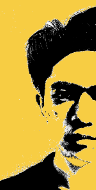
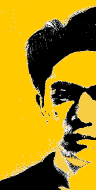
:modify design

diff --git a/pages/index.vue b/pages/index.vue
@@ -5,7 +5,7 @@ const toLogin = () => router.push("./login");
 
 <template>
   <div class="text-center">
-    <div class="bg-[#F7CC45]">
+    <div class="bg-[#FFCA00]">
       <div class="flex">
         <div>
           <img
@@ -13,10 +13,10 @@ const toLogin = () => router.push("./login");
             src="~/assets/img/nippon-grand-prix-title.png"
             alt="サービス"
           />
-          <p class="font-black text-xl md:text-6xl mt-4 px-6">
+          <p class="font-black text-xl md:text-5xl mt-4 px-6">
             スワイプでひと笑い
           </p>
-          <p class="font-bold text-base md:text-4xl mt-2 px-6 md:mt-4">
+          <p class="font-bold text-base md:text-2xl mt-2 px-6 md:mt-4">
             〜新感覚な大喜利アプリ〜
           </p>
         </div>
@@ -35,14 +35,17 @@ const toLogin = () => router.push("./login");
             bg-gradient-to-r
             from-yellow-600
             to-zinc-400
-            hover:from-zinc-500 hover:to-teal-600
+            hover:from-zinc-500
+            hover:to-teal-600
             cursor-pointer
             text-white
             font-bold
             py-3
             px-8
             rounded-full
-            md:text-3xl md:py-6 md:px-16
+            md:text-2xl
+            md:py-4
+            md:px-16
           "
           @click="toLogin"
         >
@@ -56,14 +59,14 @@ const toLogin = () => router.push("./login");
           md:text-center
           px-6
           pt-8
-          md:text-3xl
+          md:text-2xl
         "
       >
         <span class="text-yellow-500">Nipponグランプリ</span>
         は、大喜利をスワイプで評価、クイズ形式で投稿して余暇を楽しむサービスです。
       </h1>
     </div>
-    <div class="bg-[#F7CC45] h-hull px-4 py-8">
+    <div class="bg-[#FFCA00] h-hull px-4 py-8">
       <p class="font-bold text-3xl md:text-4xl">特徴</p>
       <p class="my-4 text-sm text-white">Feature</p>
       <div class="py-4 md:flex md:justify-center">
@@ -77,7 +80,8 @@ const toLogin = () => router.push("./login");
             bg-white
             font-bold
             my-4
-            md:mx-6 md:w-1/4
+            md:mx-6
+            md:w-1/4
           "
         >
           <div>
@@ -101,7 +105,8 @@ const toLogin = () => router.push("./login");
             bg-white
             font-bold
             my-4
-            md:mx-6 md:w-1/4
+            md:mx-6
+            md:w-1/4
           "
         >
           <div>
@@ -125,7 +130,8 @@ const toLogin = () => router.push("./login");
             bg-white
             font-bold
             my-4
-            md:mx-6 md:w-1/4
+            md:mx-6
+            md:w-1/4
           "
         >
           <div>
@@ -141,9 +147,9 @@ const toLogin = () => router.push("./login");
         </div>
       </div>
     </div>
-    <div class="bg-black h-full md:h-screen px-4 py-8">
+    <div class="bg-black h-full px-4 py-8">
       <p class="font-bold text-3xl md:text-4xl text-white">使い方</p>
-      <p class="my-4 text-sm text-[#F7CC45]">How to Use</p>
+      <p class="my-4 text-sm text-[#FFCA00]">How to Use</p>
       <div class="flex justify-center py-8 md:pt-20">
         <div class="w-40 md:w-80 text-white text-justify">
           <img
@@ -169,7 +175,7 @@ const toLogin = () => router.push("./login");
         </div>
       </div>
     </div>
-    <div class="bg-[#F7CC45] h-hull md:h-screen px-4 py-8">
+    <div class="bg-[#FFCA00] h-hull px-4 py-8">
       <p class="font-bold text-3xl md:text-4xl text-black">よくある質問</p>
       <p class="my-4 text-sm text-white">Question & Answer</p>
       <div class="divide-y">
@@ -181,8 +187,7 @@ const toLogin = () => router.push("./login");
               class="
                 before:block
                 before:absolute
-                before:-inset-1
-                before:-skew-y-3
+                before:-inset-1 before:-skew-y-3
                 before:bg-pink-500
                 relative
                 inline-block
@@ -199,8 +204,7 @@ const toLogin = () => router.push("./login");
               class="
                 before:block
                 before:absolute
-                before:-inset-1
-                before:-skew-y-3
+                before:-inset-1 before:-skew-y-3
                 before:bg-teal-600
                 relative
                 inline-block
@@ -219,8 +223,7 @@ const toLogin = () => router.push("./login");
               class="
                 before:block
                 before:absolute
-                before:-inset-1
-                before:-skew-y-3
+                before:-inset-1 before:-skew-y-3
                 before:bg-pink-500
                 relative
                 inline-block
@@ -237,8 +240,7 @@ const toLogin = () => router.push("./login");
               class="
                 before:block
                 before:absolute
-                before:-inset-1
-                before:-skew-y-3
+                before:-inset-1 before:-skew-y-3
                 before:bg-teal-600
                 relative
                 inline-block
@@ -257,8 +259,7 @@ const toLogin = () => router.push("./login");
               class="
                 before:block
                 before:absolute
-                before:-inset-1
-                before:-skew-y-3
+                before:-inset-1 before:-skew-y-3
                 before:bg-pink-500
                 relative
                 inline-block
@@ -275,8 +276,7 @@ const toLogin = () => router.push("./login");
               class="
                 before:block
                 before:absolute
-                before:-inset-1
-                before:-skew-y-3
+                before:-inset-1 before:-skew-y-3
                 before:bg-teal-600
                 relative
                 inline-block
@@ -295,8 +295,7 @@ const toLogin = () => router.push("./login");
               class="
                 before:block
                 before:absolute
-                before:-inset-1
-                before:-skew-y-3
+                before:-inset-1 before:-skew-y-3
                 before:bg-pink-500
                 relative
                 inline-block
@@ -313,8 +312,7 @@ const toLogin = () => router.push("./login");
               class="
                 before:block
                 before:absolute
-                before:-inset-1
-                before:-skew-y-3
+                before:-inset-1 before:-skew-y-3
                 before:bg-teal-600
                 relative
                 inline-block
@@ -333,8 +331,7 @@ const toLogin = () => router.push("./login");
               class="
                 before:block
                 before:absolute
-                before:-inset-1
-                before:-skew-y-3
+                before:-inset-1 before:-skew-y-3
                 before:bg-pink-500
                 relative
                 inline-block
@@ -351,8 +348,7 @@ const toLogin = () => router.push("./login");
               class="
                 before:block
                 before:absolute
-                before:-inset-1
-                before:-skew-y-3
+                before:-inset-1 before:-skew-y-3
                 before:bg-teal-600
                 relative
                 inline-block
@@ -368,7 +364,7 @@ const toLogin = () => router.push("./login");
     <div class="bg-black h-full px-4 py-8">
       <div class="md:flex md:justify-center">
         <div class="px-6 md:px-12 md:py-20 md:w-1/2">
-          <p class="text-white text-3xl font-black text-justify md:text-5xl">
+          <p class="text-white text-3xl font-black text-justify md:text-4xl">
             10秒でひとわらい
           </p>
           <p
@@ -391,14 +387,17 @@ const toLogin = () => router.push("./login");
                 bg-gradient-to-r
                 from-yellow-600
                 to-zinc-400
-                hover:from-zinc-500 hover:to-teal-600
+                hover:from-zinc-500
+                hover:to-teal-600
                 cursor-pointer
                 text-white
                 font-bold
                 py-3
                 px-8
                 rounded-full
-                md:text-3xl md:py-6 md:px-16
+                md:text-2xl
+                md:py-4
+                md:px-16
               "
               @click="toLogin"
             >
